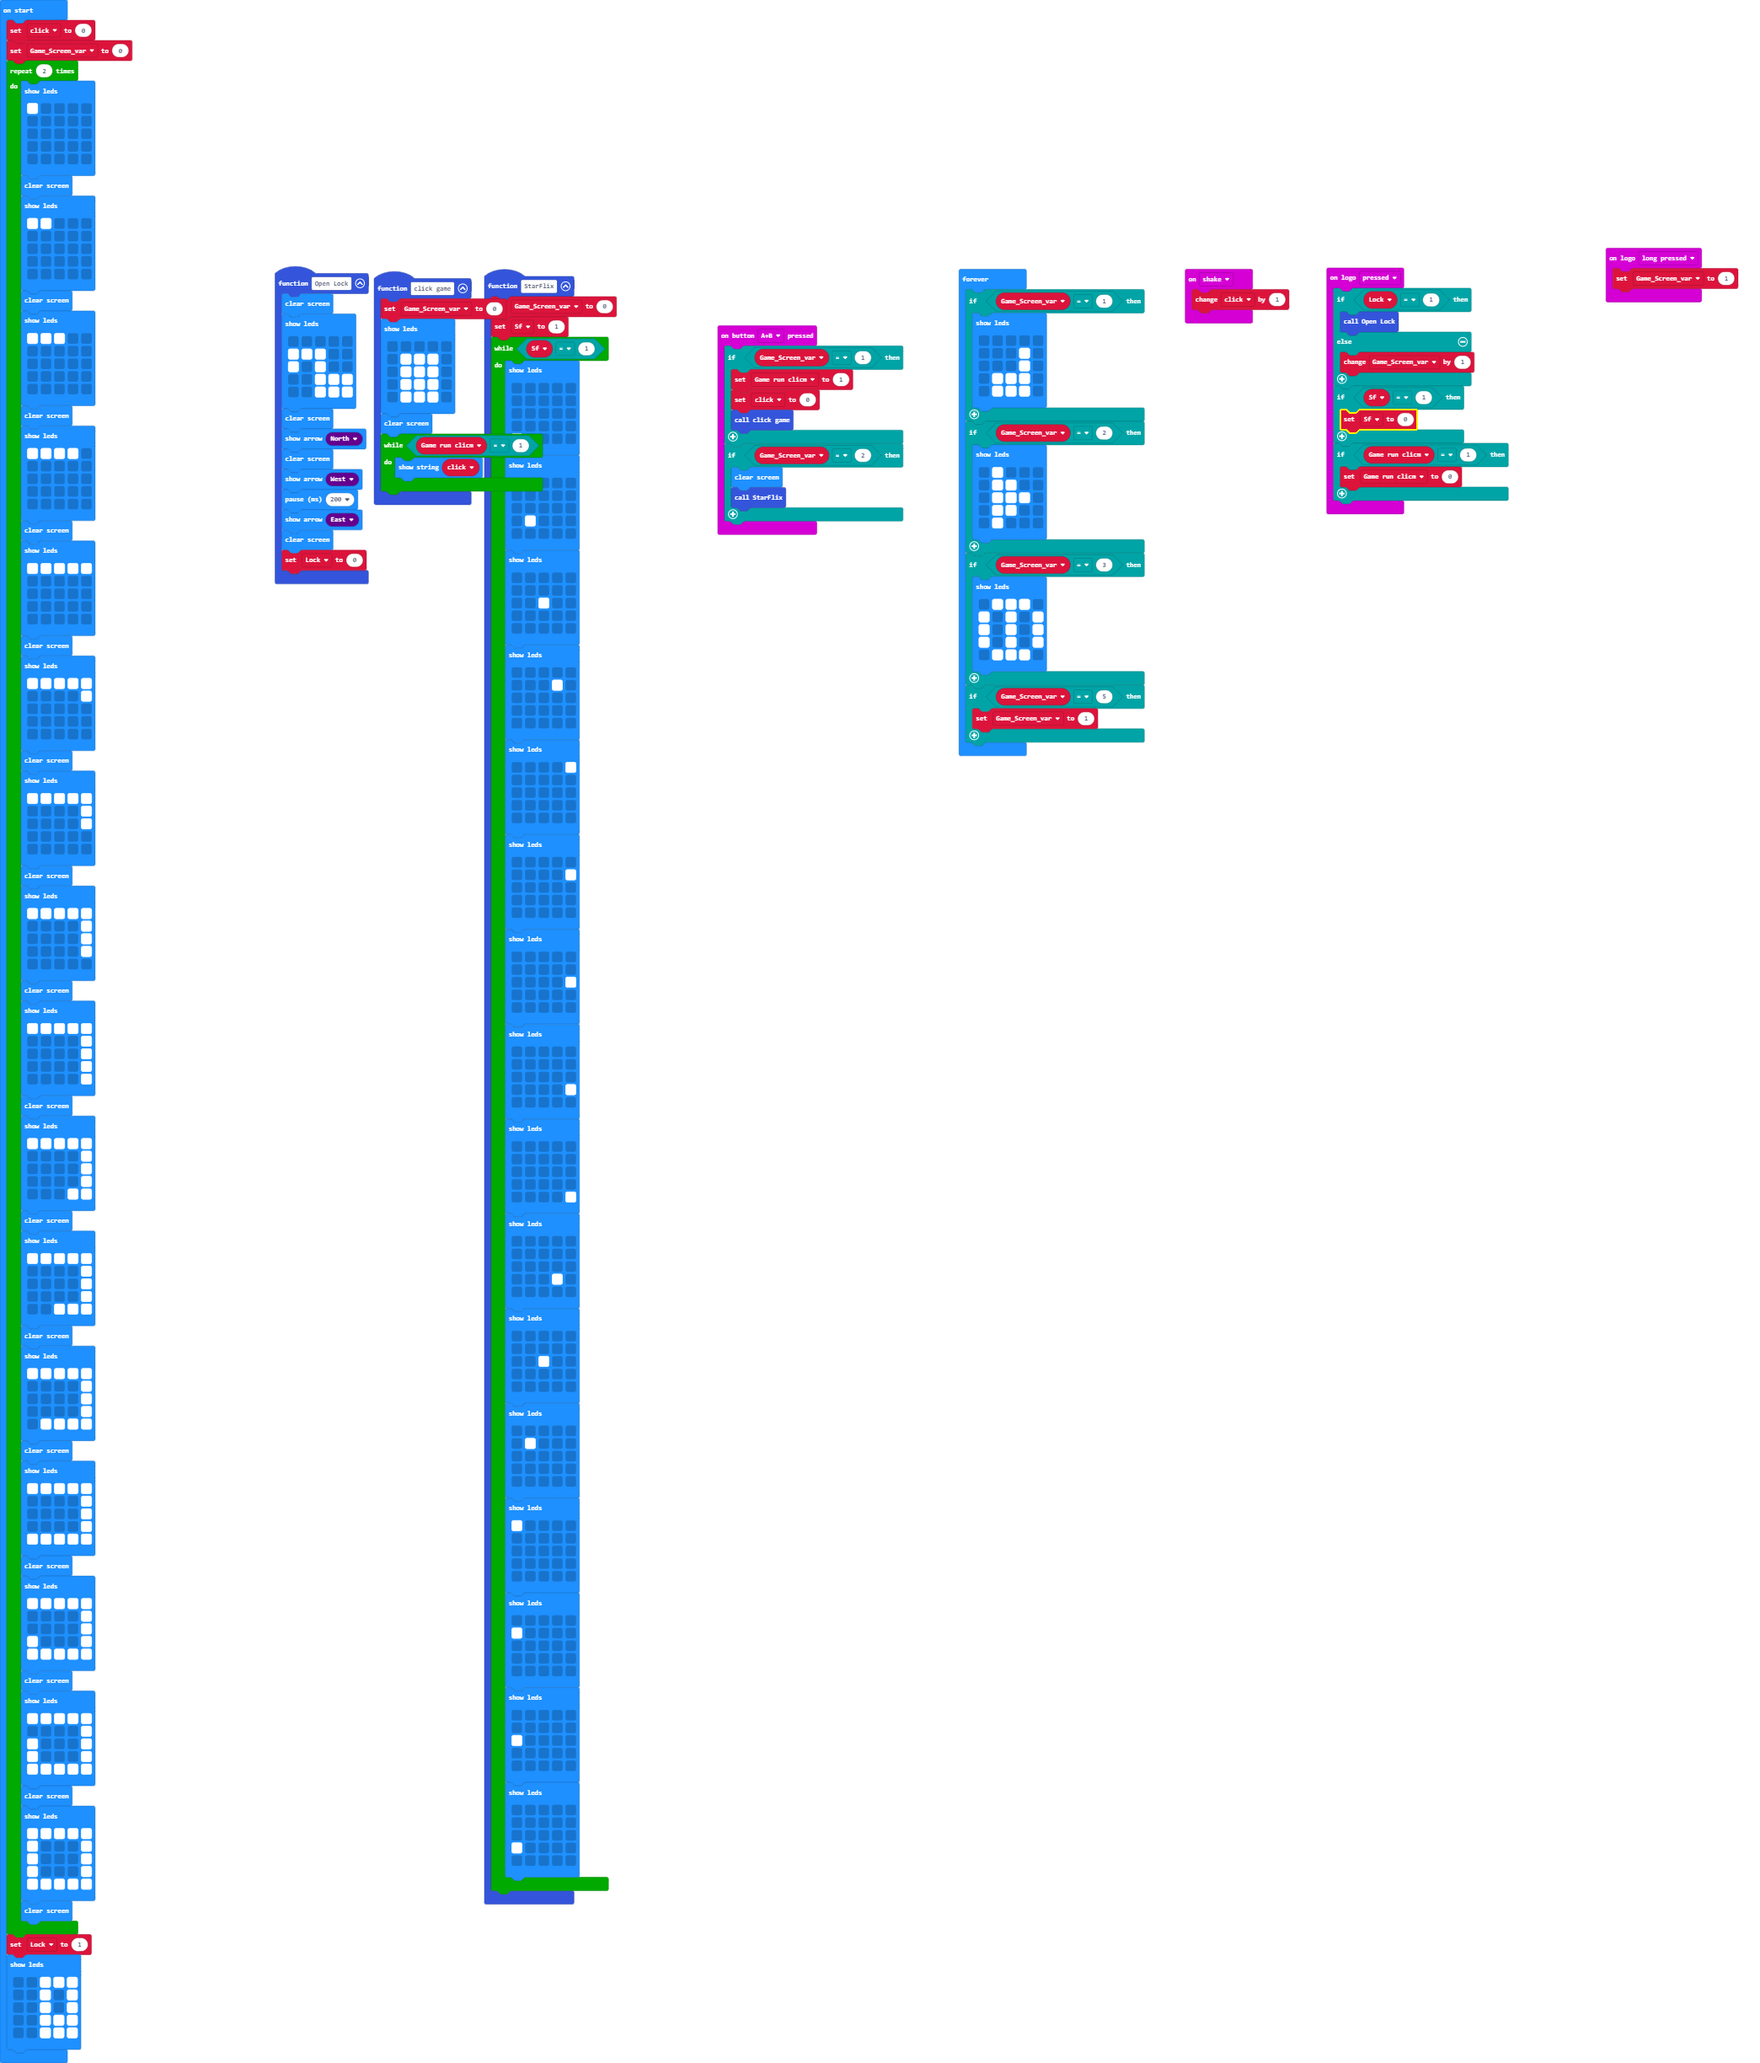
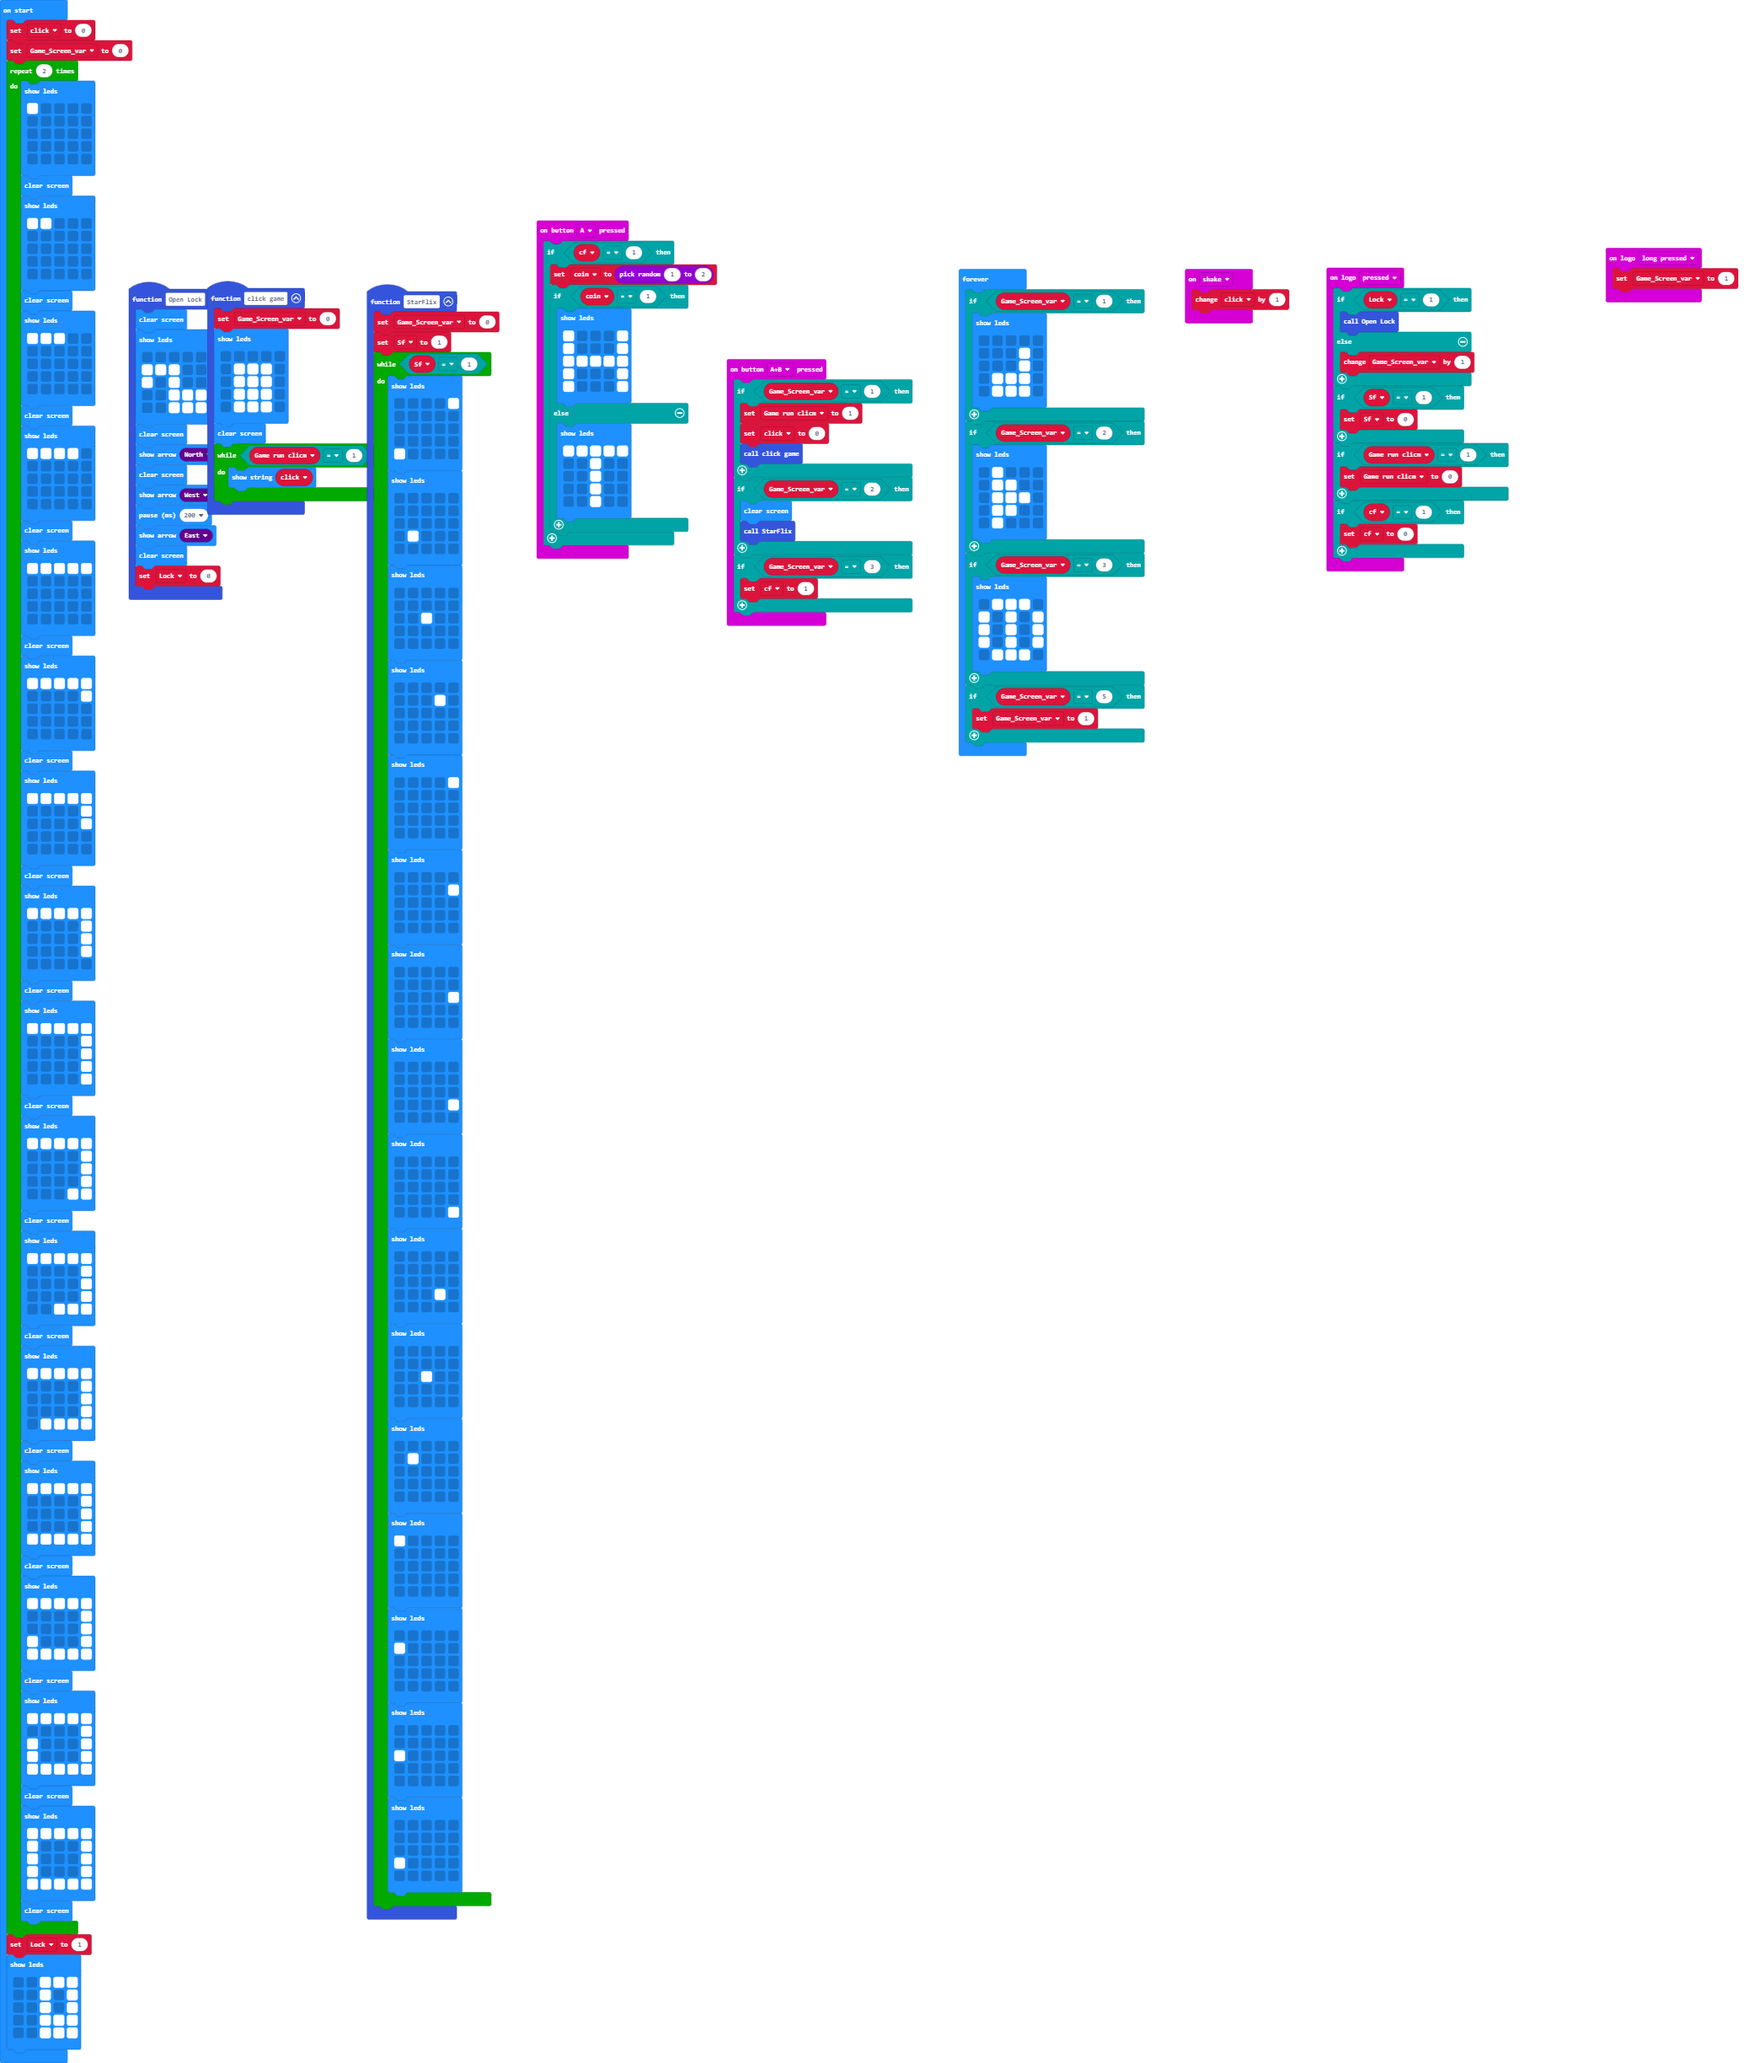
Added coin flipper

Changed region(s): [[0.0622, 0.0931, 0.529, 0.9314], [0.7468, 0.2173, 0.8401, 0.2794]]

diff --git a/main.ts b/main.ts
@@ -19,12 +19,34 @@ function Open_Lock () {
 input.onLogoEvent(TouchButtonEvent.LongPressed, function () {
     Game_Screen_var = 1
 })
+input.onButtonPressed(Button.A, function () {
+    if (cf == 1) {
+        coin = randint(1, 2)
+        if (coin == 1) {
+            basic.showLeds(`
+                # . . . #
+                # . . . #
+                # # # # #
+                # . . . #
+                # . . . #
+                `)
+        } else {
+            basic.showLeds(`
+                # # # # #
+                . . # . .
+                . . # . .
+                . . # . .
+                . . # . .
+                `)
+        }
+    }
+})
 function StarFlix () {
     Game_Screen_var = 0
     Sf = 1
     while (Sf == 1) {
         basic.showLeds(`
-            . . . . .
+            . . . . #
             . . . . .
             . . . . .
             . . . . .
@@ -147,6 +169,9 @@ input.onButtonPressed(Button.AB, function () {
         basic.clearScreen()
         StarFlix()
     }
+    if (Game_Screen_var == 3) {
+        cf = 1
+    }
 })
 function click_game () {
     Game_Screen_var = 0
@@ -177,9 +202,14 @@ input.onLogoEvent(TouchButtonEvent.Pressed, function () {
     if (Game_run_clicm == 1) {
         Game_run_clicm = 0
     }
+    if (cf == 1) {
+        cf = 0
+    }
 })
 let Game_run_clicm = 0
 let Sf = 0
+let coin = 0
+let cf = 0
 let Lock = 0
 let Game_Screen_var = 0
 let click = 0
